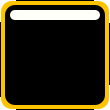
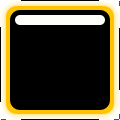
Final first draft of controls chapter

diff --git a/docs/controls/src/imagine-style/main.qml b/docs/controls/src/imagine-style/main.qml
@@ -2,6 +2,9 @@ import QtQuick 2.0
 import QtQuick.Controls 2.0
 
 ApplicationWindow {
+
+    // ...
+
     visible: true
     width: 640
     height: 480
@@ -15,6 +18,8 @@ ApplicationWindow {
         width: parent.width/2
 
         spacing: 10
+
+        // ...
 
         Repeater {
             model: 5
@@ -34,6 +39,8 @@ ApplicationWindow {
         columns: 2
 
         spacing: 10
+
+        // ...
 
         Repeater {
             model: 10

diff --git a/docs/controls/controls.rst b/docs/controls/controls.rst
@@ -411,4 +411,67 @@ If the user clicks cancel (or otherwise rejects the dialog, e.g. closes the wind
 The Imagine Style
 =================
 
-TBD
+One of the goals with Qt Quick Controls 2 is to separate the logic of a control from its appearance. For most of the styles, the implementation of the appearance consists of a mix of QML code and graphical assets. However, using the *Imagine* style, it is possible to customize the appearance of a Qt Quick Controls 2 based application using only graphical assets.
+
+The imagine style is based on `9-patch images <https://developer.android.com/guide/topics/graphics/drawables#nine-patch>`_. This allows the images to carry information on how they are stretched and what parts are to be considered as a part of the element and what is outside, e.g. a shadow. The style declares a large number of assets that can be used to control the appearance of each element.
+
+The details of 9-patch images, and how each control can be styled is covered in great detail in the `Imagine style documentation <https://doc.qt.io/qt-5/qtquickcontrols2-imagine.html>`_. Here, we will create a custom style to an imaginary device interface to demonstrate how the style is used.
+
+The application consists of a custom style of the ``ApplicationWindow`` and ``Button`` controls. For the buttons, the normal case, as well as *pressed* and *checked* are handled. The demonstration application is shown below.
+
+.. figure:: assets/style-imagine-example.png
+
+    The custom imagine button style.
+
+The code for this uses a ``Column`` for the clickable buttons, and a ``Grid`` for the checkable ones. The clickable buttons also stretch with the window width.
+    
+.. literalinclude:: src/imagine-style/main.qml
+    :lines: 4-7, 13, 21-34, 42-
+
+As we are using the *Imagine* style, all controls that we want to use needs to be styled using a graphical asset. The easiest is the background for the ``ApplicationWindow``. This is a single pixel texture defining the background colour. By naming the file ``applicationwindow-background.png`` and then pointing the style to it using the ``qtquickcontrols2.conf`` file, the file is picked up.
+
+In the ``qtquickcontrols2.conf`` file shown below, you can see how we set the ``Style`` to ``Imagine``, and then setup a ``Path`` for the style where it can look for the assets. Finally we set some palette properties as well. The available palette properties can be found on the `palette QML Basic Type <https://doc.qt.io/qt-5/qml-palette.html#qtquickcontrols2-palette>`_ page.
+    
+.. literalinclude:: src/imagine-style/qtquickcontrols2.conf
+    :language: ini
+
+The assets for the ``Button`` control are ``button-background.9.png``, ``button-background-pressed.9.png`` and ``button-background-checked.9.png``. These follow the *control*-*element*-*state* pattern. The stateless file, ``button-background.9.png`` is used for all states without a specific asset. According to the `Imagine style element reference table <https://doc.qt.io/qt-5/qtquickcontrols2-imagine.html#element-reference>`_, a button can have the following states:
+
+* disabled
+* pressed
+* checked
+* checkable
+* focused
+* highlighted
+* flat
+* mirrored
+* hovered
+
+Which ones that are needed depends on your user interface. For instance, the hovered style is never used for touch based interfaces.
+
+.. figure:: assets/button-background-checked-enlarged.9.png
+
+    The ``button-background-checked.9.png`` asset enlarged.
+
+Looking at an enlarged version of ``button-background-checked.9.png`` above you can see the 9-patch guide lines along the sides. The purple background has been added for visibility reasons. This area is actually transparent in the asset used in the example. 
+
+The pixes along the edges of the image can be either white/transparent, black, or red. These have different meanings that we will go through one by one.
+
+* **Black** lines along the **left** and **top** sides of the asset mark the stretchable parts of the image. This means that the rounded corners and the white marker in the example are not affected when the button is stretched.
+* **Black** lines along the **right** and **bottom** sides of the asset mark the area used for the control's contents. That means what part of the button is used for text in the example.
+* **Red** lines along the **right** and **bottom** sides of the asset mark *inset* areas. These areas are a part of the image, but not considered a part of the control. For the checked image above, this is used for a soft halo extending outside the button.
+
+A demonstration of the usage of an *inset* areas is how the ``button-background.9.png`` (below) and ``button-background-checked.9.png`` (above) result in an image that seems to light up, but not move, in the example.
+
+.. figure:: assets/button-background-enlarged.9.png
+
+    The ``button-background.9.png`` asset enlarged.
+
+Summary
+=======
+
+In this chapter we have looked at the Qt Quick Controls 2. They offer set of elements that provide more high level concepts than the basic QML elements. For most scenarios, you will save memory and gain performance by using the Qt Quick Controls 2, as they are based around an optimized C++ logic instead of Javascript and QML.
+
+In the chapter we've demonstrated how different styles can be used, and how a common code base can be developed using file selectors. This way, a single code base can address multiple platforms with user interactions and visual styles.
+
+Finally, we have looked at the Imagine style that allows you to completely customize the look of a QML application through the use of graphical assets. This way an application can be reskinned without any code change what so ever.
